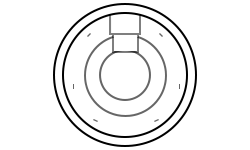
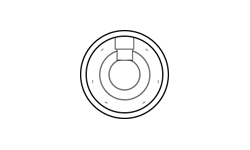
Ajustadas las piletas

Changed region(s): [[0.196, 0.0, 0.812, 0.9867], [0.56, 0.5867, 0.588, 0.64]]

diff --git a/index.html b/index.html
@@ -49,7 +49,7 @@
 		<div class="columnRoma">
 			<h2 class="cabeceraPileta">Piletas con escalera tipo Romana</h2>
 			<div class="itemPileta">
-				<img class="imgPis" src="img/piscinas/pequenia000.png">
+				<img class="imgPis" src="img/piscinas/pileChica1.png">
 				<p class="PPis">2,8 X 1,7 X 0,7</p>
 			</div>
 			<div class="itemPileta">
